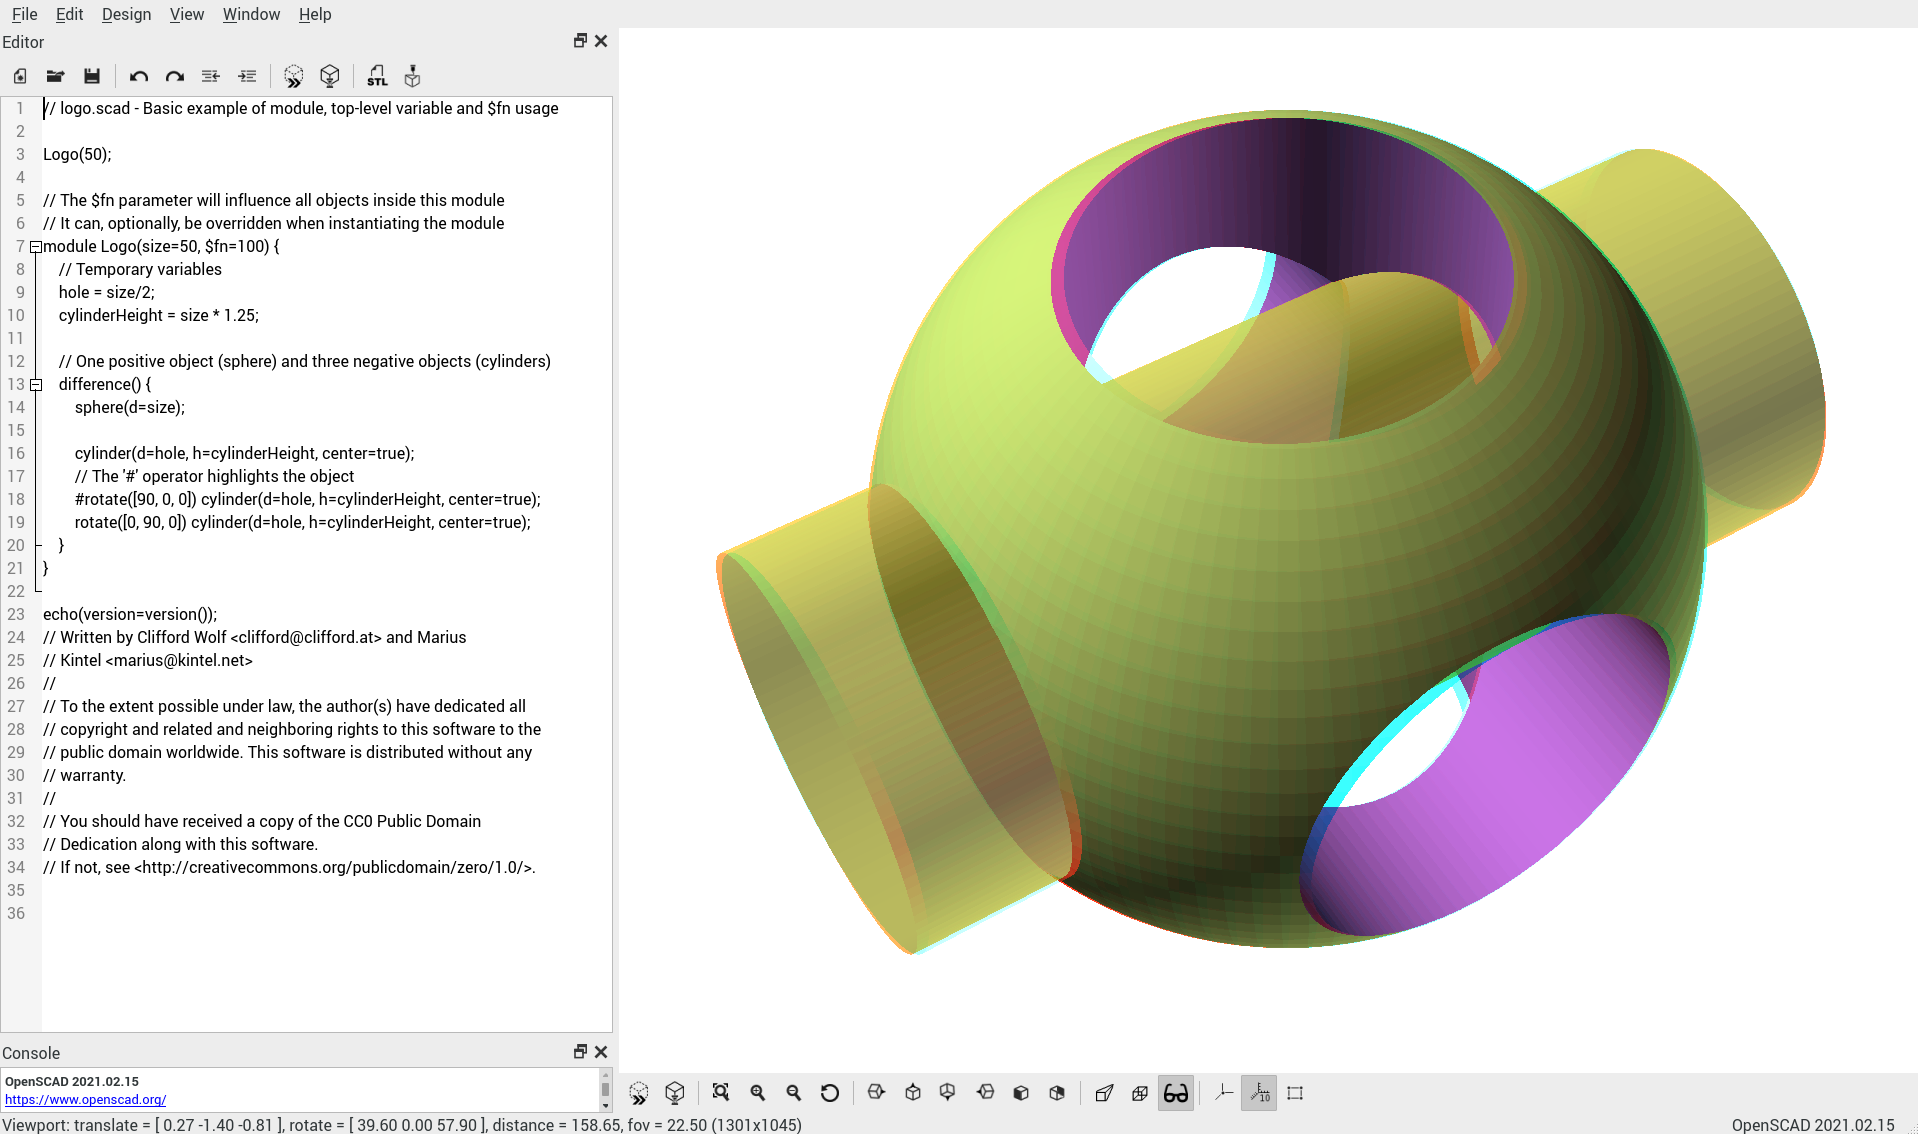
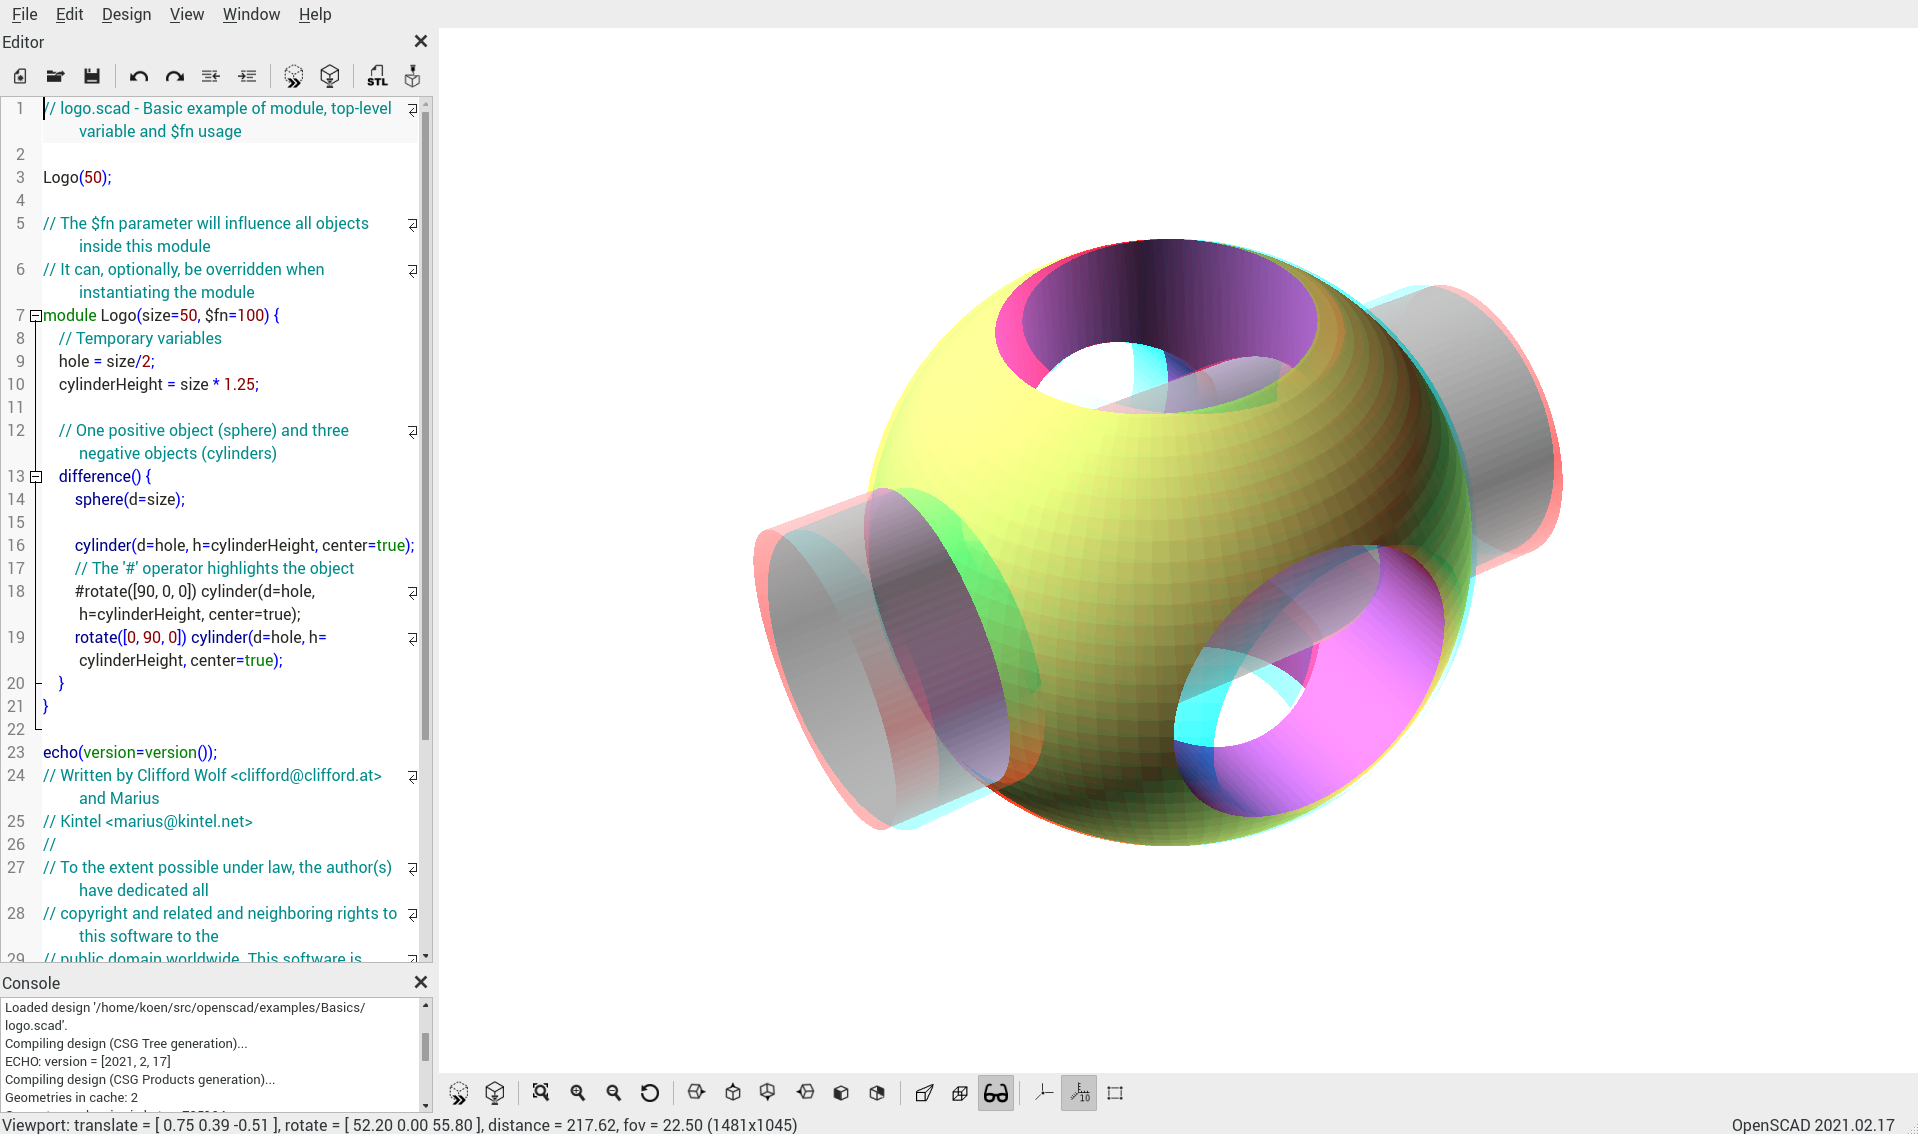
ok

diff --git a/README.md b/README.md
@@ -34,13 +34,25 @@ Select color scheme "Ash".
 
 - Click the 3D glasses icon ![anaglyph](images/Anaglyph-32.png) to toggle stereo mode.
 
+- Put on 3D glasses
+
+- Zoom out until the whole object is visible.
+
 - Press *Ctrl* and rotate the mouse scroll wheel to adjust the eye separation. Too little eye separation and the 3D effect disappears; too much and you get eyestrain. Adjust for your viewing comfort.
 
-## Notes
+- The built-in variable $anaglyph is true when rendering in 3d anaglyph mode, false otherwise.
 
-The built-in variable $anaglyph is true when rendering in 3d anaglyph mode, false otherwise.
+## Colors
 
-[Dubois shading](http://www.site.uottawa.ca/~edubois/anaglyph/) has not been implemented yet. This means that if an object has red or cyan color, the depth illusion will fail. But for many simple tasks, grayscale is sufficient.
+[![colorwheel](images/colorwheel.png)](https://raw.githubusercontent.com/koendv/openscad-raspberrypi/master/images/colorwheel.svg)
+
+The glasses used to see 3D anaglyphs have red lenses for the left eye, cyan (blue-green) lenses for the right eye. Red (hue 0) and cyan (hue 180) are complementary colours; opposed on the colour wheel.
+
+If an object has pure red or cyan color, the depth illusion will fail. To see depth, both eyes need to see an image. If you look at a color wheel through 3D glasses, blue-green colors appear dark through the red lens; red colors appear dark through the blue-green lens. Colors suitable for anaglyph  are those that can be seen through both lenses.  This includes greys, greens (hue around 75) and purple (hue around 285).
+
+Because the color filters are not perfect, crosstalk may occur: a bit of the image for the left eye is seen by the right eye, and the other way round. This usually occurs with saturated colors. If a color has strong green but weak red, the green may be so strong that it persists even after filtering. The left eye then sees the image for the right eye, superimposed on the image for the left eye. To lessen this effect, called *ghosting*, saturated colors should be avoided.
+
+The color scheme "3D Glasses" uses unsaturated greens and purples. Because colors are a matter of personal taste, a small [python script](gencolorscheme.py) is included to allow adapting the color scheme.
 
 ## Build notes
 
@@ -153,6 +165,9 @@ Run the AppImage on a clean install of the operating system to check all depende
 ### 32-bit version
 
 The 32-bit version for Raspberry Pi OS 2021-01-11-raspios-buster-armhf differs in that Qt5, lib3mf and QScintilla have been [compiled from source](https://github.com/koendv/qt5-opengl-raspberrypi).
+
+### References
+- [Dubois shading](http://www.site.uottawa.ca/~edubois/anaglyph/)
 
 ## Credits
 After a patch by Josef Pavlik
